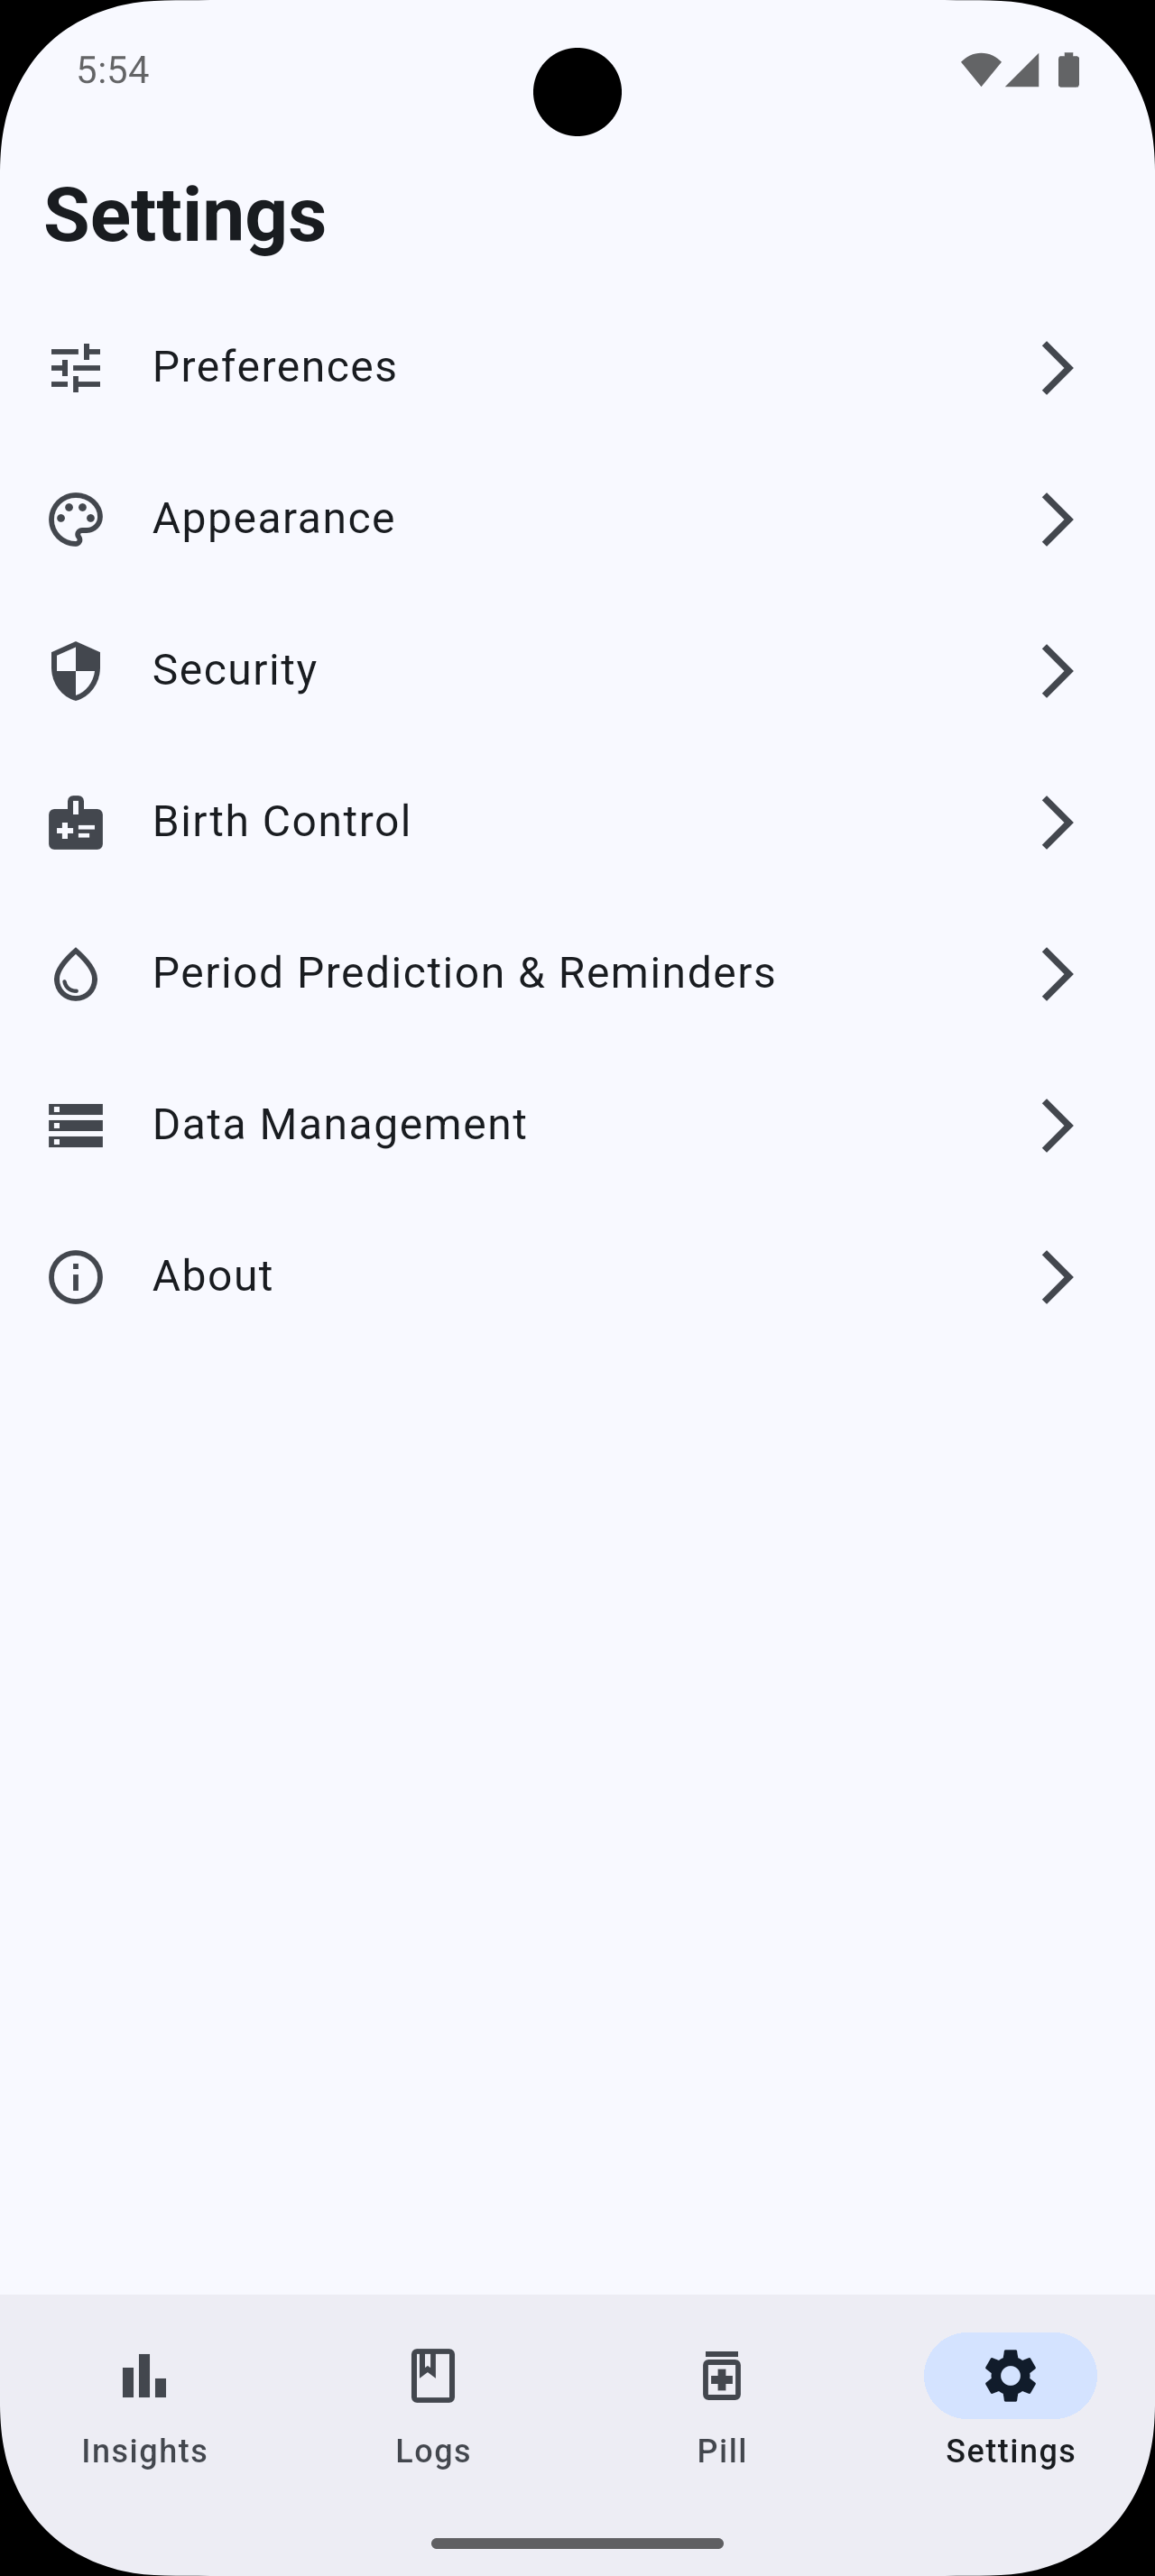
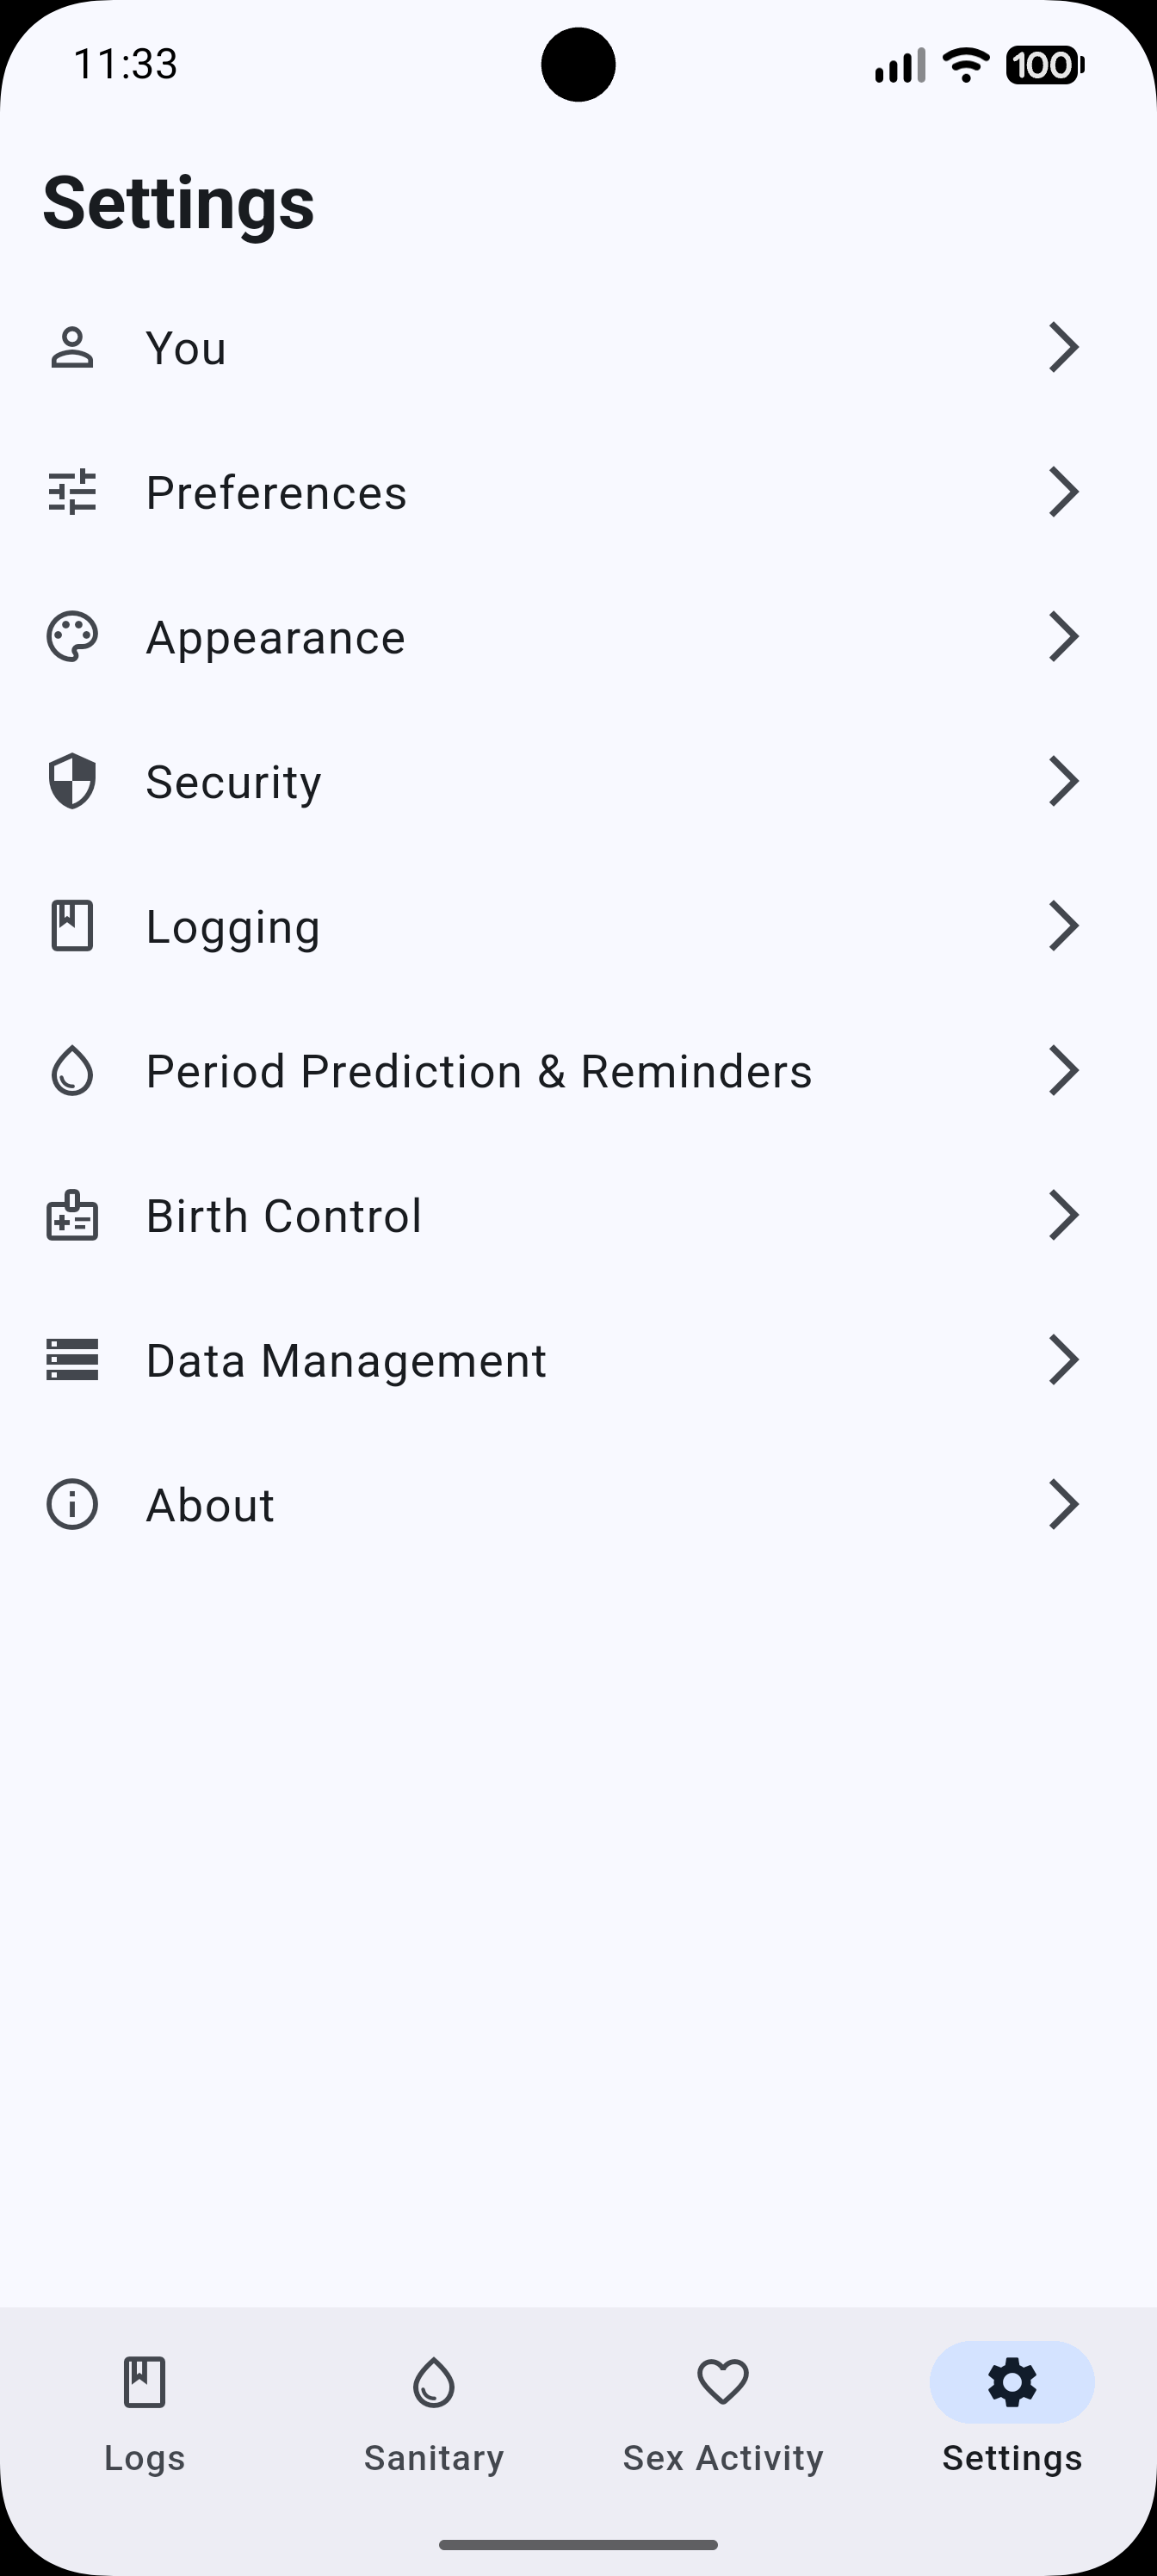
Merge pull request #446 from J-shw/feature/repo/update-app-screenshots
Feature/repo/update app screenshots

Pull request: Feature/repo/update app screenshots

diff --git a/README.md b/README.md
@@ -98,13 +98,44 @@ You can view our privacy policy [here](https://menstrudel.app/privacy/).
 
 # App Screenshots
 
-| Your daily logs |  Quick symptom entry | Sanitary product reminders |
-| :---: | :---: | :---: |
-| ![Log View](docs/screenshots/android/logs_screen.png) | ![Symptom Entry Dialog](docs/screenshots/android/log_screen.png) | ![Sanitary Product Tracking Screen](docs/screenshots/android/sanitary_screen.png) |
-| Pill Reminder | Quick insights | Settings |
-| ![Screenshot of the pill reminder screen in Menstrudel](docs/screenshots/android/pills_screen.png)  | ![Insights View](docs/screenshots/android/insights_screen.png) | ![Settins Screen](docs/screenshots/android/settings_screen.png) | 
-| LARC Tracking | Widgets |  |
-| ![Screenshot of the LARC tracking screen](docs/screenshots/android/larc_screen.png) | ![Screenshot of the widgets screen on home screen](docs/screenshots/android/widget_screen.png) |   | 
+<table width="100%">
+  <tr>
+    <td width="25%" align="center"><b>Today screen</b></td>
+    <td width="25%" align="center"><b>Quick log entry</b></td>
+    <td width="25%" align="center"><b>Log calendar</b></td>
+    <td width="25%" align="center"><b>Log insights</b></td>
+  </tr>
+  <tr>
+    <td><img src="docs/screenshots/android/logs_today_screen.png" width="100%"></td>
+    <td><img src="docs/screenshots/android/logs_add_log_screen.png" width="100%"></td>
+    <td><img src="docs/screenshots/android/logs_calendar_screen.png" width="100%"></td>
+    <td><img src="docs/screenshots/android/logs_insights_screen.png" width="100%"></td>
+  </tr>
+  <tr>
+    <td align="center"><b>Sanitary product reminder</b></td>
+    <td align="center"><b>Sanitary product insights</b></td>
+    <td align="center"><b>Pill reminders</b></td>
+    <td align="center"><b>Settings</b></td>
+  </tr>
+  <tr>
+    <td><img src="docs/screenshots/android/sanitary_product_log_screen.png" width="100%"></td>
+    <td><img src="docs/screenshots/android/sanitary_product_insight_screen.png" width="100%"></td>
+    <td><img src="docs/screenshots/android/pill_screen.png" width="100%"></td>
+    <td><img src="docs/screenshots/android/settings_screen.png" width="100%"></td>
+  </tr>
+  <tr>
+    <td align="center"><b>Reversible contraceptives</b></td>
+    <td align="center"><b>Sex logging</b></td>
+    <td align="center"><b>Sex insights</b></td>
+    <td align="center"><b>Widgets</b></td>
+  </tr>
+  <tr>
+    <td><img src="docs/screenshots/android/contraceptives_screen.png" width="100%"></td>
+    <td><img src="docs/screenshots/android/sex_activity_log_screen.png" width="100%"></td>
+    <td><img src="docs/screenshots/android/sex_activity_insight_screen.png" width="100%"></td>
+    <td><img src="docs/screenshots/android/widget_screen.png" width="100%"></td>
+  </tr>
+</table>
 
 # Wear OS
 